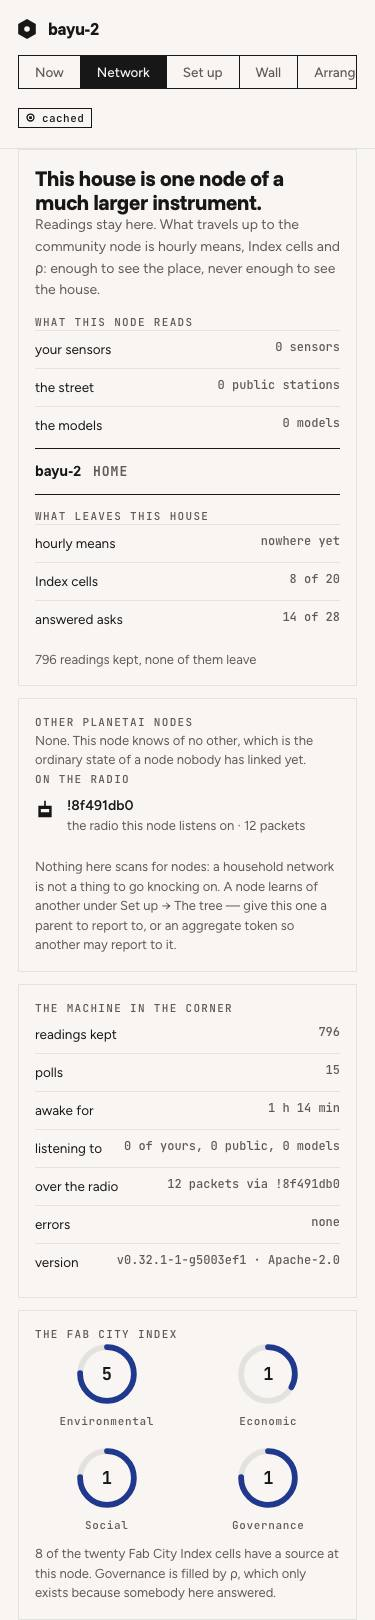
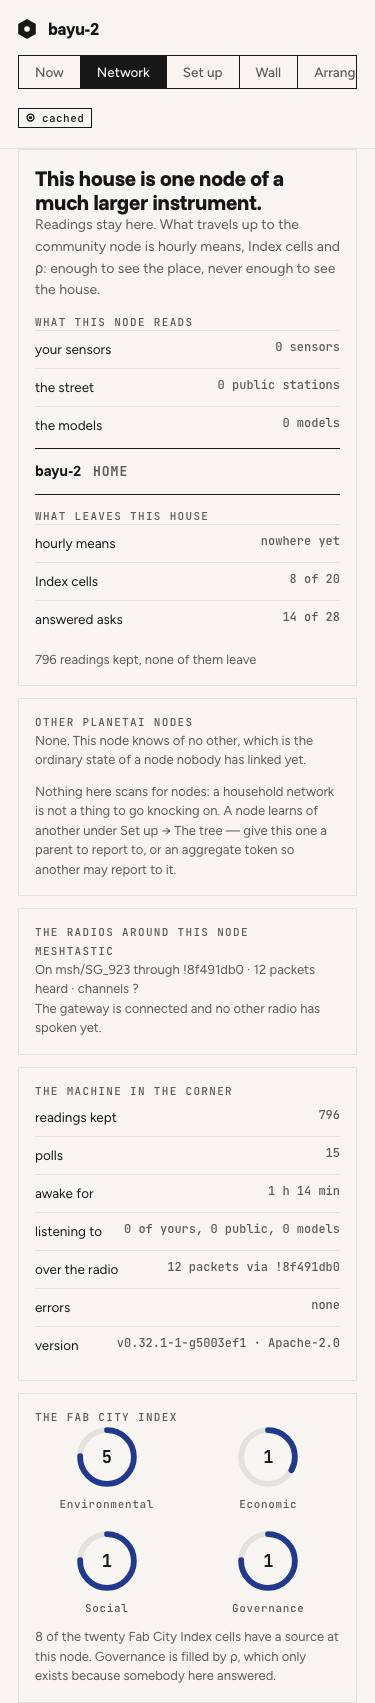
the Network view shows the radios this node is on, and says which half of presence exists
MESHTASTIC needed nothing collected. Every packet the gateway uplinks already becomes a sensor row
carrying meta.mesh_node, meta.channel, meta.root_topic and the name from its nodeinfo
(app/sources.py: meshtastic_message), so the mesh is a group-by over /sensors. mesh_state counts
packets since the node last STARTED while the radios are in the database, so a node restarted ten
minutes ago knows six radios and has heard none; the card says that rather than printing "On —
through — · 0 packets" and calling an em dash a fact. The hardware field is Meshtastic's enum
number and named nothing to a reader, so it is gone.

RETICULUM arrives through a new `reticulum` key on /health, filled by its own 300-second loop and
never per request: every screen in the house asks /health every twenty seconds, and a bridge that is
down must not turn the node's own health check into a timeout.

And the thing worth knowing. app/reticulum_bridge.py has always called router.announce(me.hash)
every RETICULUM_ANNOUNCE_S with display_name "planetai <node>" — every node with that bridge is
already broadcasting "I am here, I am planetai <name>" across every transport it has, with no data
attached. That is half a presence layer, running today. The other half does not exist: nothing
registers an announce handler, so no node collects what it hears. The card says so in those words.
What the rest would take is written up in docs/HANDOFF_dashboard_renderer.md — an announce handler,
[…]

diff --git a/app/static/dashboard.js b/app/static/dashboard.js
@@ -123,7 +123,16 @@ const WORDS = {
           cellsN: '{n} of 20', rhoN: '{closed} of {total}',
           parentNowhere: 'nowhere yet', home: 'home',
           kept: '{n} readings kept, none of them leave',
-          others: 'Other PLANETAI nodes', radioHead: 'On the radio',
+          others: 'Other PLANETAI nodes',
+          radioCard: 'The radios around this node',
+          meshHead: 'Meshtastic', retHead: 'Reticulum',
+          meshOn: 'On {topic} through {gw} \u00b7 {n} packets heard \u00b7 channels {chans}',
+          meshQuiet: 'The gateway is connected and no other radio has spoken yet.',
+          meshIdle: 'Channels {chans}. Nothing heard since this node last started; the radios below are the ones it knows.',
+          retOn: 'This node announces itself as planetai every {mins} minutes, at {addr}.',
+          retDown: 'The bridge is configured and not answering.',
+          retDeaf: 'It announces; it does not yet listen. Nothing here collects the announces other Reticulum nodes make, so another PLANETAI node would have to be named under Set up \u2192 The tree to appear at all.',
+          noRadios: 'No radio on this node. Meshtastic needs a gateway under Set up \u2192 Integrations; Reticulum needs its container.',
           leavesShort: 'what leaves', index: 'The Fab City Index',
           parentIs: 'this node reports to it, once an hour',
           parentHidden: 'a parent is set \u2014 unlock under Set up to see which',
@@ -206,7 +215,16 @@ const WORDS = {
           cellsN: '{n} dari 20', rhoN: '{closed} dari {total}',
           parentNowhere: 'belum ke mana-mana', home: 'rumah',
           kept: '{n} bacaan disimpan, tidak satu pun keluar',
-          others: 'Node PLANETAI lain', radioHead: 'Lewat radio',
+          others: 'Node PLANETAI lain',
+          radioCard: 'Radio di sekitar node ini',
+          meshHead: 'Meshtastic', retHead: 'Reticulum',
+          meshOn: 'Di {topic} lewat {gw} \u00b7 {n} paket terdengar \u00b7 kanal {chans}',
+          meshQuiet: 'Gateway tersambung dan belum ada radio lain yang bicara.',
+          meshIdle: 'Kanal {chans}. Belum ada yang terdengar sejak node ini terakhir dinyalakan; radio di bawah adalah yang sudah dikenalnya.',
+          retOn: 'Node ini mengumumkan dirinya sebagai planetai setiap {mins} menit, di {addr}.',
+          retDown: 'Bridge sudah diatur tetapi tidak menjawab.',
+          retDeaf: 'Ia mengumumkan, tetapi belum mendengarkan. Tidak ada yang mengumpulkan pengumuman node Reticulum lain di sini, jadi node PLANETAI lain harus disebut di Set up \u2192 The tree agar muncul.',
+          noRadios: 'Tidak ada radio di node ini. Meshtastic perlu gateway di Set up \u2192 Integrations; Reticulum perlu kontainernya.',
           leavesShort: 'yang keluar', index: 'Fab City Index',
           parentIs: 'node ini melapor ke sana, sekali sejam',
           parentHidden: 'induk sudah diatur \u2014 buka kunci di Set up untuk melihat yang mana',
@@ -289,7 +307,16 @@ const WORDS = {
           cellsN: '{n} de 20', rhoN: '{closed} de {total}',
           parentNowhere: 'a ning\u00fan sitio todav\u00eda', home: 'casa',
           kept: '{n} lecturas guardadas, ninguna sale',
-          others: 'Otros nodos PLANETAI', radioHead: 'Por radio',
+          others: 'Otros nodos PLANETAI',
+          radioCard: 'Las radios alrededor de este nodo',
+          meshHead: 'Meshtastic', retHead: 'Reticulum',
+          meshOn: 'En {topic} a trav\u00e9s de {gw} \u00b7 {n} paquetes o\u00eddos \u00b7 canales {chans}',
+          meshQuiet: 'La pasarela est\u00e1 conectada y ninguna otra radio ha hablado todav\u00eda.',
+          meshIdle: 'Canales {chans}. Nada o\u00eddo desde el \u00faltimo arranque de este nodo; las radios de abajo son las que ya conoce.',
+          retOn: 'Este nodo se anuncia como planetai cada {mins} minutos, en {addr}.',
+          retDown: 'El puente est\u00e1 configurado y no responde.',
+          retDeaf: 'Anuncia, pero todav\u00eda no escucha. Aqu\u00ed nada recoge los anuncios de otros nodos Reticulum, as\u00ed que otro nodo PLANETAI tendr\u00eda que nombrarse en Set up \u2192 The tree para aparecer.',
+          noRadios: 'Sin radio en este nodo. Meshtastic necesita una pasarela en Set up \u2192 Integrations; Reticulum necesita su contenedor.',
           leavesShort: 'lo que sale', index: 'El Fab City Index',
           parentIs: 'este nodo le informa, una vez por hora',
           parentHidden: 'hay un padre configurado \u2014 desbloquea en Set up para ver cu\u00e1l',
@@ -882,7 +909,7 @@ const COMPONENTS = {
   forecast: drawForecast,
 
   // The Network view's four.
-  netMap, cellRings, peers, vitals,
+  netMap, cellRings, peers, radios, vitals,
 
   sensorCard(d, ctx) {
     return `<div class="sensor" data-component="sensorCard">`
@@ -1435,22 +1462,67 @@ function cellRings(d, ctx) {
  */
 function peers(d, ctx) {
   const w = ctx.w.net;
-  const row = (sign, name, note) => `<div class="peer">${ctx.sign(sign)}`
+  const row = (sign, name, note, cls = '') => `<div class="peer${cls ? ' ' + cls : ''}">${ctx.sign(sign)}`
     + `<div><b>${esc(name)}</b><span class="note">${esc(note)}</span></div></div>`;
   const nodes = [];
   if (d.parentName) nodes.push(row('machine', d.parentName, w.parentIs));
   else if (d.parentSet) nodes.push(row('machine', w.parentHidden, w.parentIs));
   (d.children || []).forEach(c => nodes.push(row('machine', c, w.childIs)));
-  // A mesh gateway is a RADIO, not a node running this software, and listing it under the same
-  // heading answered "are there other PLANETAI nodes?" with something that is not one.
-  const mesh = d.mesh || {};
-  const pk = mesh.packets || 0;
-  const radios = mesh.gateway
-    ? row('sensor', mesh.gateway, t(pk === 1 ? w.meshIs1 : w.meshIs, { n: pk })) : '';
   return `<div class="peers" data-component="peers">`
     + (nodes.join('') || `<p class="note">${esc(w.alone)}</p>`)
-    + (radios ? `<div class="k mt">${esc(w.radioHead)}</div>${radios}` : '')
     + `</div><p class="note mt">${esc(w.howto)}</p>`;
+}
+
+/* The radio networks this node is on.
+ *
+ * Both of these are the thing a node CAN see without anyone sharing readings: a Meshtastic node
+ * broadcasts its name, its hardware and sometimes its position to whoever is listening, and a
+ * Reticulum node announces an address and a display name across every transport it has. This card
+ * is what the node has actually heard.
+ *
+ * Meshtastic arrives already stored: every packet the gateway uplinks becomes a sensor row carrying
+ * `meta.mesh_node`, `meta.channel` and `meta.root_topic` (app/sources.py: meshtastic_message), so
+ * the mesh is a group-by over /sensors rather than anything new to collect.
+ */
+function radios(d, ctx) {
+  const w = ctx.w.net;
+  const out = [];
+  const mesh = d.mesh || {};
+  const heard = d.meshNodes || [];
+  if (mesh.root_topic || heard.length) {
+    const chans = [...new Set(heard.map(m => m.channel).filter(Boolean))];
+    out.push(`<div class="k">${esc(w.meshHead)}</div>`);
+    // mesh_state is counted since the node last started and the nodes themselves are in the
+    // database, so a node restarted ten minutes ago knows six radios and has heard none of them.
+    // Saying "On — through — · 0 packets" was the page reporting an em dash as a fact.
+    out.push(`<p class="note">${esc(mesh.packets
+      ? t(w.meshOn, { topic: mesh.root_topic || '?', gw: mesh.gateway || '?',
+                      n: mesh.packets, chans: chans.join(', ') || '?' })
+      : t(w.meshIdle, { chans: chans.join(', ') || '?' }))}</p>`);
+    out.push(heard.length
+      ? `<div class="peers">${heard.map(m => {
+        const name = m.name || m.id;
+        // the hardware arrives as Meshtastic's enum number, which names nothing to a reader
+        const bits = [String(name).includes(m.id) ? '' : m.id, m.where].filter(Boolean);
+        return `<div class="peer">${ctx.sign('sensor')}<div><b>${esc(name)}</b>`
+          + (bits.length ? `<span class="note">${esc(bits.join(' · '))}</span>` : '')
+          + `</div></div>`;
+      }).join('')}</div>`
+      : `<p class="note">${esc(w.meshQuiet)}</p>`);
+  }
+  const r = d.reticulum || null;
+  if (r) {
+    out.push(`<div class="k mt">${esc(w.retHead)}</div>`);
+    out.push(`<p class="note">${esc(r.ok && r.address
+      ? t(w.retOn, { addr: r.address, mins: Math.round((r.announce_s || 1800) / 60) })
+      : w.retDown)}</p>`);
+    // The half that does not exist yet, said plainly rather than left as an absence somebody has to
+    // notice. Every node with this bridge already shouts "I am here"; none of them is listening.
+    // Only when it IS announcing: a bridge that is down is not announcing and not deaf either.
+    if (r.ok) out.push(`<p class="note">${esc(w.retDeaf)}</p>`);
+  }
+  if (!out.length) out.push(`<p class="note">${esc(w.noRadios)}</p>`);
+  return `<div data-component="radios">${out.join('')}</div>`;
 }
 
 /* The machine in the corner. Ported from the page this replaces, value for value. */
@@ -1495,6 +1567,15 @@ function networkView(snap, ctx) {
     // token can still say a parent exists without being told where it is.
     parentSet: !!parent.set,
     parentName: parent.set && parent.value && !/^•+/.test(parent.value) ? parent.value : '',
+    // Every Meshtastic node the gateway has uplinked, from the sensor rows meshtastic_message wrote.
+    // `meta` is cut to _META_PUBLIC for a reader with no token, so the id and the hardware are only
+    // there for somebody the node trusts — the name and the position are on the row itself.
+    meshNodes: sensors.filter(s => s.source === 'meshtastic').map(s => ({
+      id: (s.meta || {}).mesh_node || s.sensor_id,
+      name: s.name, hardware: (s.meta || {}).hardware, channel: (s.meta || {}).channel,
+      where: s.lat != null && s.lon != null ? `${s.lat.toFixed(3)}, ${s.lon.toFixed(3)}` : '',
+    })).sort((a, b) => String(a.name || a.id).localeCompare(String(b.name || b.id))),
+    reticulum: (snap.health || {}).reticulum || null,
     acted: (snap.rho || {}).acted || 0,
     asks: (snap.rho || {}).alerts_act || 0,
   };
@@ -1502,7 +1583,8 @@ function networkView(snap, ctx) {
   return `<div class="card net"><div class="head"><h2 class="t">${esc(w.title)}</h2>`
     + `<div class="sub">${esc(w.sub)}</div></div>${piece('netMap', d, ctx)}</div>`
     + `<div class="grid g2 mt"><div class="card"><div class="k">${esc(w.others)}</div>${piece('peers', d, ctx)}</div>`
-    + `<div class="card"><div class="k">${esc(w.machine)}</div>${piece('vitals', d, ctx)}</div></div>`
+    + `<div class="card"><div class="k">${esc(w.radioCard)}</div>${piece('radios', d, ctx)}</div></div>`
+    + `<div class="card mt"><div class="k">${esc(w.machine)}</div>${piece('vitals', d, ctx)}</div>`
     + `<div class="card mt"><div class="k">${esc(w.index)}</div>${piece('cellRings', d, ctx)}</div>`;
 }
 

diff --git a/app/static/dashboard.css b/app/static/dashboard.css
@@ -370,6 +370,8 @@ svg.net{width:100%;height:auto;display:block;margin-top:clamp(12px,1.6vw,20px)}
 .cellrow .dial span{position:absolute;inset:0;display:flex;align-items:center;justify-content:center;font:700 17px var(--mono);color:var(--ink)}
 .cellrow .l{font:500 11px var(--mono);letter-spacing:.06em;color:var(--mute);margin-top:8px}
 .peers{display:flex;flex-direction:column}
+[data-component="radios"] .k{margin-top:16px}
+[data-component="radios"]>.k:first-child{margin-top:4px}
 .peers .k+.peer{border-top:0}
 .peers .k{margin-top:2px}
 .peer{display:flex;gap:12px;align-items:start;padding:10px 0;border-top:1px solid var(--hair)}

diff --git a/app/main.py b/app/main.py
@@ -74,6 +74,10 @@ def HA_DISCOVERY():
 _ha_announced: set = set()
 RETICULUM_URL = os.getenv("RETICULUM_URL", "").strip()       # the reticulum bridge, e.g. http://reticulum:4243
 mesh_state = {"root_topic": None, "gateway": None, "packets": 0, "last": None}
+# What the Reticulum bridge says about itself, refreshed on its own thread. /health is called every
+# twenty seconds by every screen in the house, so it must never make an outbound request of its own:
+# a bridge that is down would turn the node's own health check into a timeout.
+reticulum_state = {"ok": False, "address": None, "destinations": 0, "announce_s": None, "last": None}
 RULES = Path(os.getenv("RULES_PATH", "/app/config/rules.yml"))
 STARTED = time.time()
 state = {"polls": 0, "last_poll": None, "last_error": None, "ingested": 0}
@@ -539,9 +543,24 @@ def poll_sources() -> None:
     poll_once(hc)
 
 
+def poll_reticulum() -> None:
+    """Ask the bridge who it is. It announces itself on Reticulum every RETICULUM_ANNOUNCE_S — an
+    "I am here, I am planetai <node>" with no data attached — and this is the node's only window
+    onto whether that is actually happening."""
+    if not RETICULUM_URL:
+        return
+    r = httpx.get(f"{RETICULUM_URL}/health", timeout=5).json()
+    reticulum_state.update({"ok": bool(r.get("ok")), "address": r.get("address"),
+                            "destinations": r.get("destinations", 0),
+                            "announce_s": int(os.getenv("RETICULUM_ANNOUNCE_S", "1800")),
+                            "last": datetime.now(timezone.utc).isoformat()})
+
+
 loop(poll_sources, POLL, delay=2)
 loop(run_rules, 60, delay=30)
 loop(push_aggregates, 3600, delay=120)
+if RETICULUM_URL:
+    loop(poll_reticulum, 300, delay=20)
 
 # ---------------------------------------------------------------- http
 from contextlib import asynccontextmanager
@@ -672,7 +691,8 @@ def health():
     # them at once, which is a different change.
     return {"ok": state["last_poll"] is not None, "node": NODE, "version": os.getenv("NODE_VERSION", "?"),
             "schema": schema, "uptime_s": int(time.time() - STARTED), "lat": round(float(os.getenv("NODE_LAT", 0) or 0), 3), "lon": round(float(os.getenv("NODE_LON", 0) or 0), 3), "city": os.getenv("NODE_CITY", ""), **state,
-            "cell": _cell(), **({"mesh": mesh_state} if MQTT_HOST else {})}
+            "cell": _cell(), **({"mesh": mesh_state} if MQTT_HOST else {}),
+            **({"reticulum": reticulum_state} if RETICULUM_URL else {})}
 
 
 def _cell() -> dict | None:

diff --git a/docs/HANDOFF_dashboard_renderer.md b/docs/HANDOFF_dashboard_renderer.md
@@ -309,6 +309,44 @@ sat veg.**
 
 `tools/shots.py` renders the Network view too, and fails on a view that drew nothing.
 
+## The radios, and what "nodes see each other" would take
+
+The Network view carries a card for the radio networks this node is on.
+
+**Meshtastic needs nothing collected.** Every packet the gateway uplinks already becomes a sensor row
+carrying `meta.mesh_node`, `meta.channel`, `meta.root_topic` and the name from its nodeinfo
+(`app/sources.py: meshtastic_message`), so the mesh is a group-by over `/sensors`. `mesh_state` in
+`app/main.py` counts packets **since the node last started** while the radios themselves are in the
+database, so a node restarted ten minutes ago knows six radios and has heard none — the card says
+that rather than printing a dash as a fact.
+
+**Reticulum is the interesting one.** `app/reticulum_bridge.py` already calls
+`router.announce(me.hash)` every `RETICULUM_ANNOUNCE_S` with `display_name = "planetai <node>"`.
+**Every node with the bridge is already broadcasting "I am here, I am planetai <name>" across every
+transport it has, with no data attached.** That is half of a presence layer, running today. The other
+half does not exist: nothing registers an `RNS.Transport` announce handler, so no node collects what
+it hears. The card says so in those words rather than leaving it as an absence.
+
+`/health` gains a `reticulum` key, filled by its own 300-second loop rather than per request — the
+dashboard asks `/health` every twenty seconds from every screen in the house and a bridge that is
+down must not turn that into a timeout.
+
+### What a presence layer would need, if it is wanted
+
+Two nodes today see each other only if one is the other's parent or child. To have Lucas's node in
+Menorca appear on node #1 as *"here, 12,700 km away"* without either sharing readings:
+
+1. **An announce handler in the bridge** (`RNS.Transport.register_announce_handler`, aspect filter
+   `lxmf.delivery`), keeping what it hears: display name, address, first and last seen.
+2. **A coarse place in the announce's app_data.** Not coordinates. The node already computes its own
+   H3 cell (`app/ground.py`), and a low resolution is the whole privacy control: res-8 is this
+   street, res-4 is about 22 km, res-3 about 59 km. A cell at res-3 says "Menorca" and distance
+   follows from two cell centres without either node publishing an address.
+3. **A rule for who announces.** `SHARE_LEVEL` governs what this node *answers*; announcing is the
+   node speaking unprompted, so it wants its own setting and a default of off.
+
+**The resolution is the decision, and it is Tomas's.** Everything else is small.
+
 ## Still open
 
 - **No beta tester has seen anything, and nothing has run on a real node.** `pai-clean` is a VM with

diff --git a/CHANGELOG.md b/CHANGELOG.md
@@ -1,5 +1,18 @@
 # Changelog
 
+## Unreleased — the radios around a node
+
+The Network view carries the radio networks this node is on. **Meshtastic** needed nothing new
+collected: every packet the gateway uplinks already becomes a sensor carrying its mesh id, its name
+and its channel, so the mesh is a group-by over what the node has. **Reticulum** appears through a
+new `reticulum` key on `/health`, filled on its own loop so a bridge that is down cannot turn the
+node's health check into a timeout.
+
+Worth knowing, because it is half of something: a node with the Reticulum bridge has always
+announced itself as `planetai <node>` every thirty minutes, across every transport it has, with no
+data attached. Nothing collects what it hears, so no node has ever seen another that way. The card
+says that plainly instead of leaving it as an absence.
+
 ## v0.47 — 2026-09-12 — the Network view draws
 
 **The Network tab was empty on every node since v0.45.** The renderer filled Now and the wall; the
